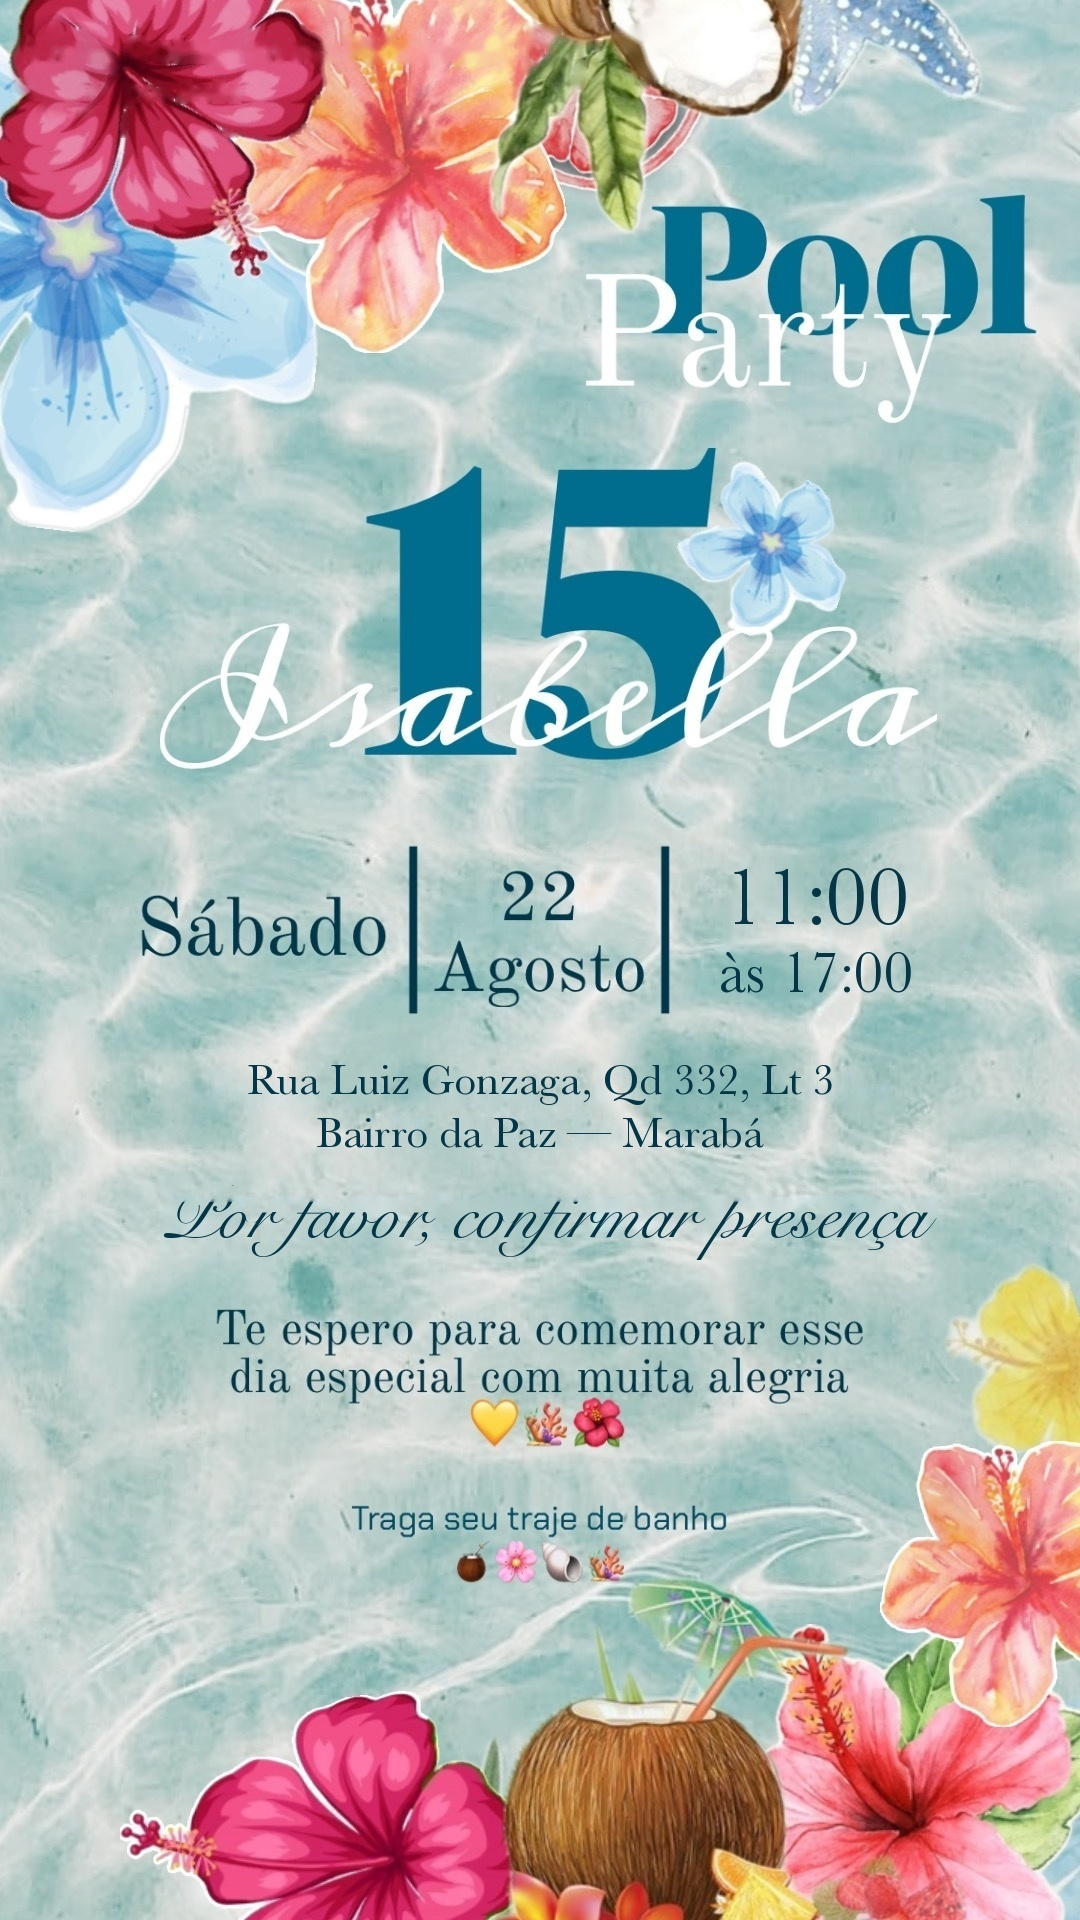
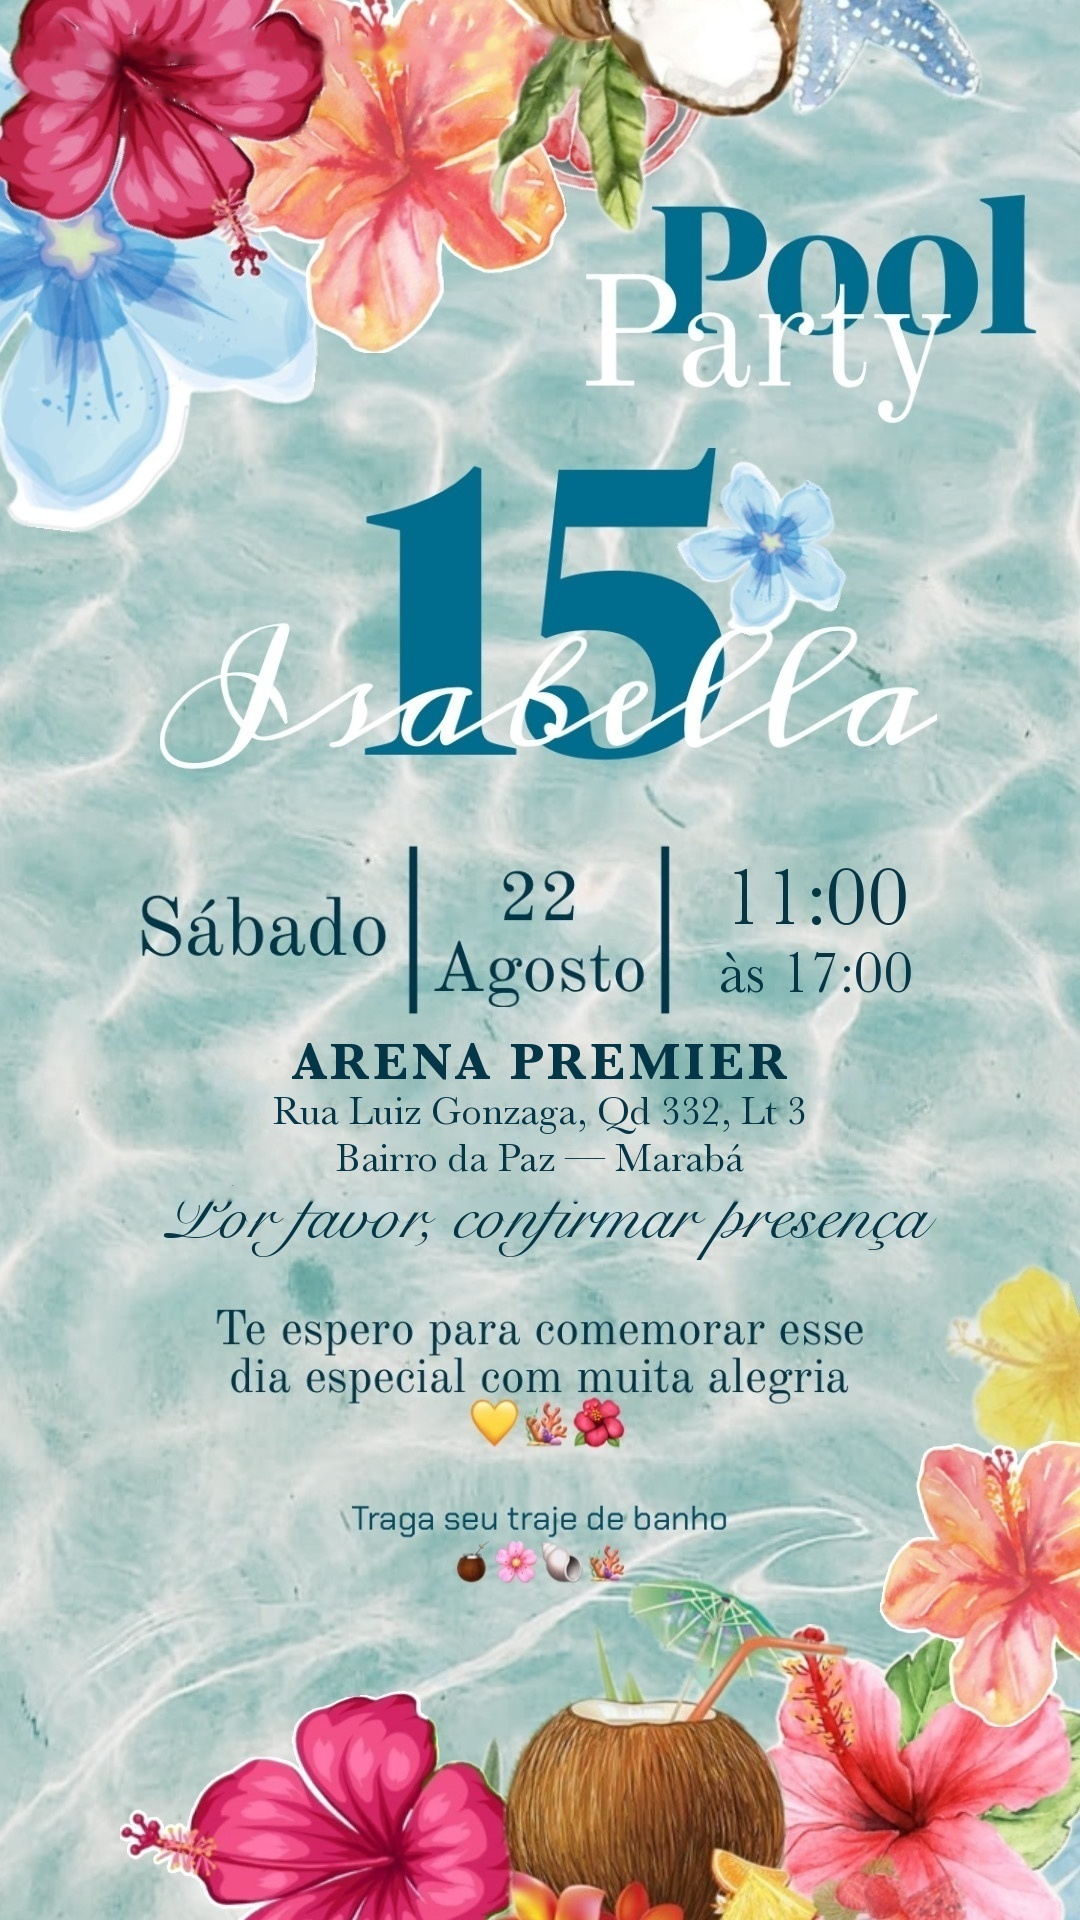
ARENA PREMIER em destaque na arte, mapa e agenda

Changed region(s): [[0.2444, 0.5312, 0.7639, 0.625]]

diff --git a/index.html b/index.html
@@ -149,7 +149,7 @@
 
   <div class="card-wrap" id="cardWrap">
     <figure class="card" id="card" style="margin:0">
-      <img src="https://isabellaxv.vercel.app/invite.jpg" alt="Convite Pool Party dos 15 anos da Isabella — sábado 22 de agosto, das 11h às 17h, na Rua Luiz Gonzaga, Qd 332 Lt 3, Bairro da Paz, Marabá" />
+      <img src="https://isabellaxv.vercel.app/invite.jpg" alt="Convite Pool Party dos 15 anos da Isabella — sábado 22 de agosto, das 11h às 17h, na ARENA PREMIER — Rua Luiz Gonzaga, Qd 332 Lt 3, Bairro da Paz, Marabá" />
     </figure>
   </div>
 
@@ -196,8 +196,8 @@
   /* ---------- Dados do evento ---------- */
   var EVENT = new Date("2026-08-22T11:00:00-03:00");
   var START = "20260822T140000Z", END = "20260822T200000Z"; // 11h–17h BRT em UTC
-  var LOCAL = "Rua Luiz Gonzaga, Qd 332, Lt 3 - Bairro da Paz, Marabá - PA";
-  var MAPS  = "https://www.google.com/maps/search/?api=1&query=" + encodeURIComponent("Rua Luiz Gonzaga Quadra 332 Lote 3 Bairro da Paz Marabá PA");
+  var LOCAL = "ARENA PREMIER - Rua Luiz Gonzaga, Qd 332, Lt 3 - Bairro da Paz, Marabá - PA";
+  var MAPS  = "https://www.google.com/maps/search/?api=1&query=" + encodeURIComponent("Arena Premier Rua Luiz Gonzaga Bairro da Paz Marabá PA");
   var CAL   = "https://calendar.google.com/calendar/render?action=TEMPLATE"
             + "&text=" + encodeURIComponent("Pool Party — 15 anos da Isabella")
             + "&dates=" + START + "/" + END
